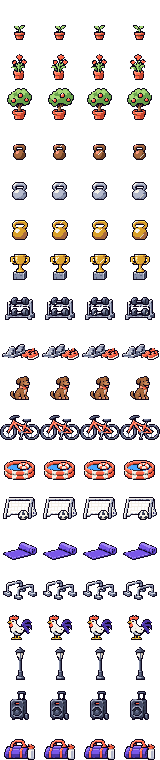
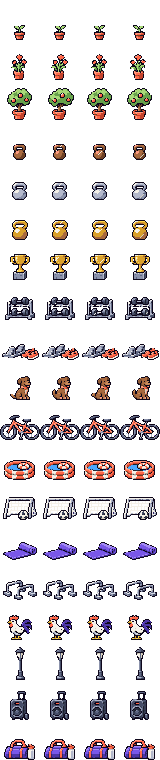
feat(jogo): animação do cachorro (Enfeite Andarilho)
O rabo abana; a cabeça, o corpo e as patas ficam parados. A tabela do
atlas em enfeitesNaPraca.ts acompanha as caixas novas.

diff --git a/Wrexercise/webapp/src/features/jogo/enfeitesNaPraca.ts b/Wrexercise/webapp/src/features/jogo/enfeitesNaPraca.ts
@@ -9,15 +9,15 @@ import type { Ponto } from "./useEncenacoes";
  */
 const atlas = {
   sequencia4: { linha: 0, esquerda: 13, largura: 13, altura: 15, ms: 320 },
-  sequencia8: { linha: 1, esquerda: 11, largura: 17, altura: 26, ms: 320 },
-  sequencia12: { linha: 2, esquerda: 7, largura: 25, altura: 32, ms: 320 },
+  sequencia8: { linha: 1, esquerda: 10, largura: 18, altura: 26, ms: 320 },
+  sequencia12: { linha: 2, esquerda: 7, largura: 27, altura: 32, ms: 320 },
   treinos10: { linha: 3, esquerda: 13, largura: 13, altura: 16, ms: 260 },
   treinos50: { linha: 4, esquerda: 12, largura: 15, altura: 18, ms: 260 },
   treinos100: { linha: 5, esquerda: 12, largura: 16, altura: 20, ms: 260 },
   desafiocompleto: { linha: 6, esquerda: 10, largura: 20, altura: 26, ms: 260 },
   ratodeacademia: { linha: 7, esquerda: 5, largura: 30, altura: 23, ms: 260 },
-  corredor: { linha: 8, esquerda: 2, largura: 36, altura: 16, ms: 220 },
-  andarilho: { linha: 9, esquerda: 10, largura: 20, altura: 24, ms: 200 },
+  corredor: { linha: 8, esquerda: 2, largura: 37, altura: 16, ms: 220 },
+  andarilho: { linha: 9, esquerda: 10, largura: 21, altura: 24, ms: 200 },
   ciclista: { linha: 10, esquerda: 0, largura: 40, altura: 25, ms: 160 },
   peixe: { linha: 11, esquerda: 4, largura: 31, altura: 20, ms: 260 },
   boleiro: { linha: 12, esquerda: 3, largura: 34, altura: 23, ms: 240 },
